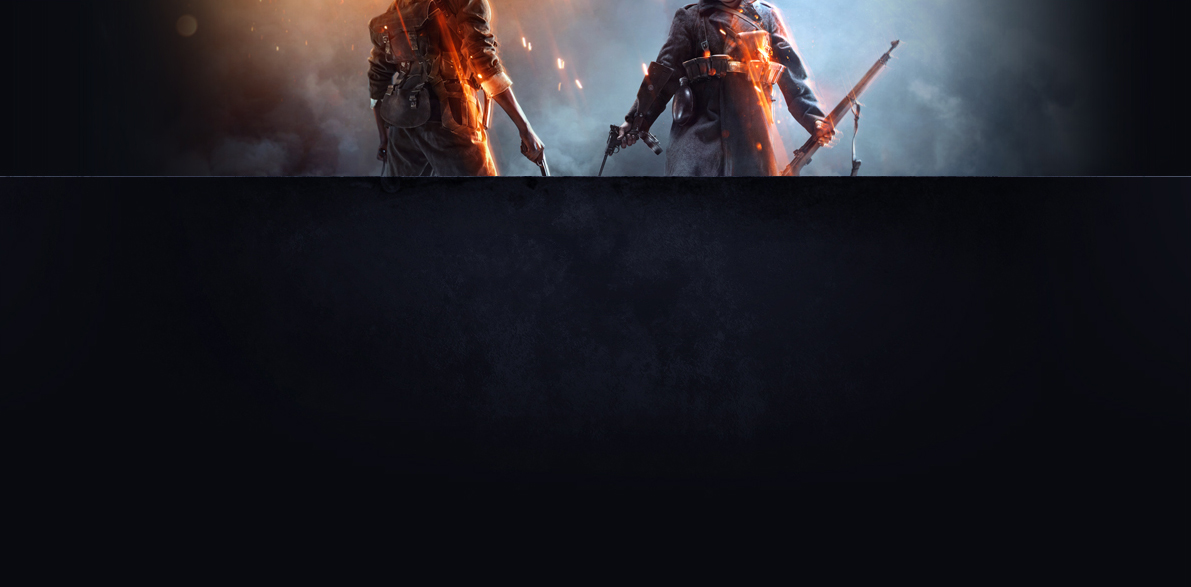
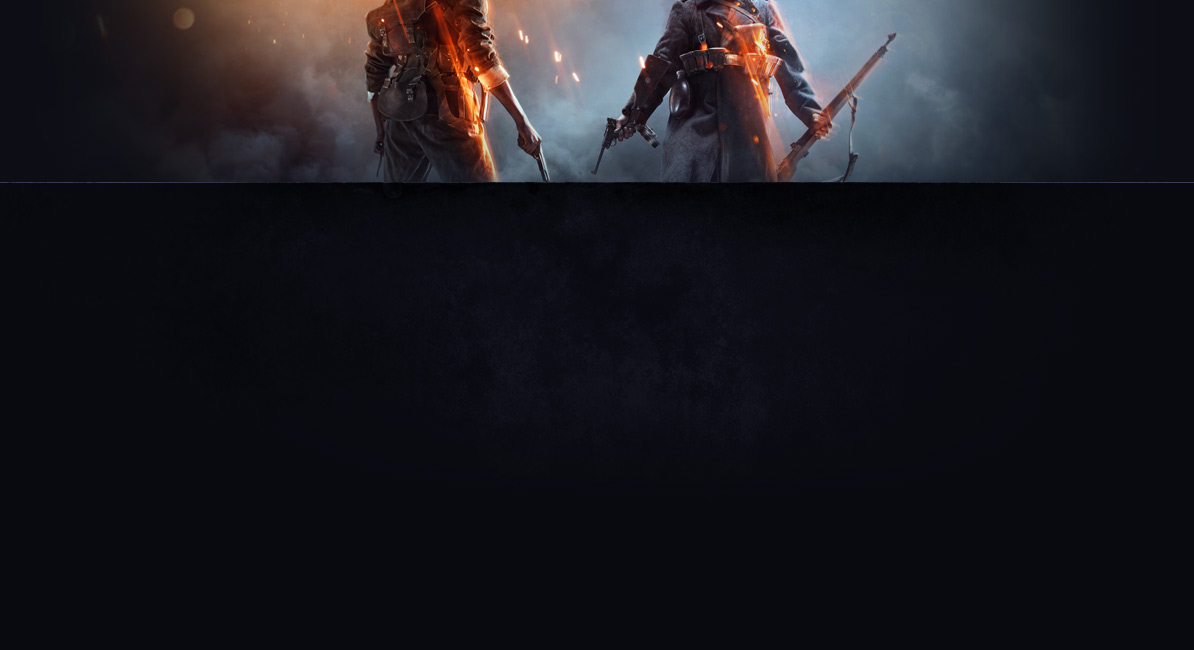
fix backgrounds, add images

Changed region(s): [[0.0, 0.0, 1.0, 0.3066], [0.1243, 0.0, 0.1864, 0.0613]]

diff --git a/public/css/main.css b/public/css/main.css
@@ -1,1 +1,1 @@
-.intro-video,.primary-nav ul,.primary-nav ul li,.site-meta ul li,section .section--centered,section .section--short-width .section-image,ul.games-listing li{text-align:center}body{background-color:#090a10;margin:0;padding:0;height:100%}ol,ul{list-style:none}.section-sub-section ul li{list-style:none;font-family:MuseoSans,"century gothic",arial,sans-serif;color:rgba(255,255,255,.4);padding-bottom:10px}a,strong{color:#df4545}.section-sub-section ul li:before{content:"\f101";font-family:FontAwesome;display:inline-block;margin-left:-1.3em;width:1.3em}h1,h2,h3,h4{font-family:MuseoSans,"century gothic",arial,sans-serif;color:#fff;line-height:1.2em;text-transform:uppercase}h1{font-size:36px;font-weight:500}h2.subtitle{font:400 24px/1em MuseoSans,"century gothic",arial;text-transform:none}section{padding:30px 0;width:100%;min-height:400px;margin:0 auto;display:flex;align-items:center}.grid,.hero-video{min-height:700px}section.with-shadow{box-shadow:0 0 10px #000}section .section--short-width{display:flex;flex-direction:row;flex-wrap:wrap}section .section--short-width .section-blurb,section .section--short-width .section-image{flex:50%}section a{font-weight:700;transition:.6s}section .section-content-container{width:960px;margin:0 auto;vertical-align:middle}section .section-content-container .section-sub-section{margin-bottom:60px}p{color:#bfb5b5;font:400 16px/1.8em MuseoSans,"century gothic",arial;line-height:26px}a{text-decoration:none;transition:color .6s}a:hover{color:#fff;transition:.6s}a.call-to-action-button{border:3px solid #fff;padding:20px;border-radius:40px;color:#fff;margin-top:20px;display:inline-block;font-family:MuseoSans,"century gothic",arial,sans-serif;font-size:24px;text-transform:uppercase}a.call-to-action-button:hover{background-color:#fff;color:#000}.primary-nav{z-index:50;width:100%;height:69px;background:url(../images/navbar-bg.jpg) repeat-x #090a10;box-shadow:0 1px 10px #000;position:relative;transition:all .4s ease}.primary-nav .nav-texture{background:url(../images/navbar-texture.png) center 0 no-repeat}.primary-nav ul{margin:0 auto;padding:0;min-width:1000px;overflow:hidden}.primary-nav ul li{display:inline-block;background:url(../images/divider.jpg) left bottom no-repeat;z-index:10;height:68px}.primary-nav ul li img{display:block;opacity:0;margin-top:-70px;margin-right:20px;filter:drop-shadow(0 0 5px #000);-webkit-filter:drop-shadow(0 0 5px #000)}.primary-nav ul li:first-of-type{background:0 0}.primary-nav ul li:first-of-type.show-logo{text-indent:-9999px}.primary-nav ul li:first-of-type.show-logo img{transition:all .4s ease;opacity:100}.primary-nav ul li a{display:inline-block;padding:26px 45px 25px;color:#6c7384;font:400 16px/1.8em MuseoSans,"century gothic",arial;text-transform:uppercase;text-shadow:0 0 5px rgba(0,0,0,.5)}.primary-nav ul li a:hover{color:#fff;text-decoration:none}.primary-nav ul li a.active a,.primary-nav ul li a.current-menu-item a{color:#fff}section.primary-footer{background:url(../images/footer-bg.jpg?) center 0 no-repeat #1a2128;display:block}section.primary-footer h1{font-family:MuseoSans,"century gothic",arial,sans-serif;font-size:18px}section.primary-footer p{font-size:14px}section.primary-footer .section-content-container{display:flex;flex-direction:row;flex-wrap:wrap}section.primary-footer .section-content-container .section-blurb{flex:100%;display:flex;padding:0 30px 20px 0}section.primary-footer .section-content-container .section-blurb .logo{display:flex;align-items:center;justify-content:center;flex:20%}section.primary-footer .section-content-container .section-blurb .logo img{width:150px;filter:drop-shadow(0 0 5px #000);-webkit-filter:drop-shadow(0 0 5px #000)}section.primary-footer .section-content-container .section-blurb .blurb-text{flex:80%}.footer-section{font-family:Tahoma,sans-serif;color:#6c7384;flex:50%;padding-top:20px}.collection .item .members,.collection .item .title,section.division .command-staff,section.division .sub-nav ul li{font-family:MuseoSans,"century gothic",arial,sans-serif}.footer-section.full-width{flex:100%}.footer-section ul{margin:0;padding:0}.footer-section ul li{line-height:25px;display:block;font-size:12px;padding-bottom:15px;color:rgba(255,255,255,.2)}.footer-section ul li .meta{display:block}.footer-section a{font-weight:lighter}.site-meta ul li{display:inline-block}.sitemap .sitemap-links ul{display:flex;flex:50%;flex-wrap:wrap}.sitemap .sitemap-links ul li{padding:0;flex:1 0 50%}.sitemap .social-media,.sitemap a{color:#6c7384}.sitemap .social-media:hover,.sitemap a:hover{color:#fff}.sitemap .social-media ul li,.sitemap a ul li{display:inline}.fixed,.stay-fixed{position:fixed;top:0}.modal-overlay{position:fixed;background-color:#000;opacity:.8;transition:opacity .6s ease;height:100%;width:100%;z-index:999}.intro-video{transform:translateY(-50%);position:fixed;top:50%;z-index:9999;width:100%;height:75%}.modal{display:block;opacity:0}.name.msgt{color:#c0f}.name.ssgt{color:#2e2efe}.name.sgt{color:#0f0}@media (max-width:1020px){.hero-video video{display:none}.primary-nav ul li{background:0 0}.section--short-width{display:block!important}section.lobby{background:0 0!important}section.lobby .divisions-list{margin-top:20px}}.game{background-image:url(../images/game-icons-sprite.png);background-repeat:no-repeat;display:block;opacity:.5;width:48px;height:48px;transition:opacity .6s}.game:hover{filter:drop-shadow(0 0 2px #000);-webkit-filter:drop-shadow(0 0 2px #000);opacity:1;transition:.6s}.game.bdo{background-position:-5px -5px}.game.bf{background-position:-63px -5px}.game.bf3{background-position:-121px -5px}.game.bf4{background-position:-5px -63px}.game.bfh{background-position:-179px -5px}.game.h1z1{background-position:-79px -63px}.game.jk{background-position:-137px -63px}.game.ow{background-position:-79px -121px}.game.ps2{background-position:-137px -121px}.game.swb{background-position:-5px -179px}.game.tc{background-position:-63px -179px}.game.wf{background-position:-121px -179px}.game.wg{background-position:-179px -179px}.game.wh{background-position:-237px -5px}.game.wow{background-position:-195px -63px}.game.ws{background-position:-195px -121px}.game.wt{background-position:-237px -179px}.aod-logo{filter:drop-shadow(0 0 5px #000);-webkit-filter:drop-shadow(0 0 5px #000);width:250px}.hero-video .hero-text{width:60%;color:#fff;z-index:3;position:relative;margin:0 auto;text-align:center}.hero-video .hero-text .play-button{background:url(../images/play-button.png) no-repeat;width:53px;height:61px;margin:60px auto 0;text-indent:-9999px;transition:filter .6s ease}.ie8-poster,.video-container,video{object-fit:cover;height:700px;top:0;left:0;position:absolute;width:100%;overflow:hidden}.hero-video .hero-text .play-button:hover{filter:drop-shadow(0 0 10px #fff);-webkit-filter:drop-shadow(0 0 10px #fff);transition:filter .6s ease;cursor:pointer}.hero-video .hero-text h1{font-size:48px;text-shadow:0 0 2px rgba(0,0,0,.4)}.grid{position:absolute;top:0;left:0;width:100%;z-index:2;background-image:url(../images/grid.png),url(../images/video-overlay.png);background-color:rgba(0,0,0,.5);background-repeat:repeat,repeat-x}.video-container{background:url(../images/video-poster.jpg) no-repeat;padding-top:60px;min-width:960px;right:0;margin:0 auto}.ie8-poster,video{z-index:1;padding-bottom:60px}section.supported-games{background:url(../images/supported-games-bg.jpg?) center 0 no-repeat #0b0f12;overflow:visible}section.supported-games .section-content-container{padding:40px 0}ul.games-listing li{display:inline-block;margin:15px;text-indent:-9999px}section.founded-info{background-image:url(../images/founded-bg.jpg?),url(../images/founded-bg-top-border.png?);background-color:#3a0707;background-position:center 0,center 0;background-repeat:no-repeat,repeat-x}section.social-media{background:url(../images/social-media-bg.jpg?) center 0 no-repeat #030911}.social-media ul{margin-top:60px}ul.social-media-sites li{display:inline-block;background-image:url(../images/social-media-sprite.png);background-repeat:no-repeat;margin:0 30px 0 0;width:62px;height:63px;text-indent:-9999px}ul.social-media-sites li.steam{background-position:-5px -5px}ul.social-media-sites li.twitch{background-position:-77px -5px}ul.social-media-sites li.twitter{background-position:-5px -78px}ul.social-media-sites li.youtube{background-position:-78px -78px}ul.social-media-sites li:hover{filter:drop-shadow(0 0 5px #fff);-webkit-filter:drop-shadow(0 0 5px #fff);cursor:pointer}section.honor-info{background:url(../images/honor-bg-top.png?) top repeat-x #74080b}section.apply-info{background:url(../images/apply-bg.jpg?) center 0 no-repeat #030911}section.division.bf,section.lobby{background-repeat:no-repeat,repeat-x;background-position:top center}section.lobby{background-image:url(../images/divisions-page-bg.jpg),url(../images/divisions-page-top-bg.jpg)}section.lobby .section-blurb{text-align:right;margin-top:50px}.divisions-list{margin-top:160px;margin-bottom:60px}.divisions-list .game-button{border:1px solid #333;border-radius:10px;margin:15px;transition:border-color .6s ease}.divisions-list .game-button:hover{border-color:#fff;cursor:pointer;transition:border-color .6s ease}.collection{display:flex;flex-direction:row;flex-wrap:wrap;align-items:center}.collection .item{display:flex;flex-direction:row;flex:1 1 20%;color:#fff;padding:15px}.collection .item .icon{margin-right:15px}.collection .item .icon .game{opacity:1}.collection .item .icon:hover{cursor:pointer}.collection .item .members{color:rgba(255,255,255,.3)}.game-header{display:flex;flex-direction:row;align-items:center}.game-header .game{opacity:1;margin-right:15px}section.division{margin-top:20px}section.division.bf{background-image:url(../images/division-headers/bf.jpg),url(../images/division-bg-border.jpg)}section.division h2{background:url(../images/division-header-bg.jpg) center no-repeat;height:50px;padding-left:15px;display:flex;align-items:center}section.division .sub-nav{margin-top:180px}section.division .sub-nav a{color:#fff}section.division .sub-nav ul{padding:0;text-indent:0}section.division .sub-nav ul li{display:inline-block;padding:15px;text-transform:uppercase;border:1px solid #fff;border-radius:10px;margin-right:15px;opacity:.3;transition:opacity .6s ease;color:#fff}section.division .sub-nav ul li:hover{opacity:1;transition:opacity .6s ease;cursor:pointer}section.division .command-staff .member{border:1px solid rgba(255,255,255,.3);border-radius:10px;padding:15px;display:inline-block;flex-direction:column;margin-right:15px;transition:border .6s ease}section.division .command-staff .member:hover{border:1px solid #fff;cursor:pointer;transition:border .6s ease}section.division .command-staff .member .name{text-transform:uppercase;font-size:20px}section.division .command-staff .member .position{color:rgba(255,255,255,.3)}
+.intro-video,.primary-nav ul,.primary-nav ul li,.site-meta ul li,section .section--centered,section .section--short-width .section-image,ul.games-listing li{text-align:center}body{background-color:#090a10;margin:0;padding:0;height:100%}ol,ul{list-style:none}.section-sub-section ul li{list-style:none;font-family:MuseoSans,"century gothic",arial,sans-serif;color:rgba(255,255,255,.4);padding-bottom:10px}a,strong{color:#df4545}.section-sub-section ul li:before{content:"\f101";font-family:FontAwesome;display:inline-block;margin-left:-1.3em;width:1.3em}h1,h2,h3,h4{font-family:MuseoSans,"century gothic",arial,sans-serif;color:#fff;line-height:1.2em;text-transform:uppercase}h1{font-size:36px;font-weight:500}h2.subtitle{font:400 24px/1em MuseoSans,"century gothic",arial;text-transform:none}section{padding:30px 0;width:100%;min-height:400px;margin:0 auto;display:flex;align-items:center}.grid,.hero-video{min-height:700px}section.with-shadow{box-shadow:0 0 10px #000}section .section--short-width{display:flex;flex-direction:row;flex-wrap:wrap}section .section--short-width .section-blurb,section .section--short-width .section-image{flex:50%}section a{font-weight:700;transition:.6s}section .section-content-container{width:960px;margin:0 auto;vertical-align:middle}section .section-content-container .section-sub-section{margin-bottom:60px}p{color:#bfb5b5;font:400 16px/1.8em MuseoSans,"century gothic",arial;line-height:26px}a{text-decoration:none;transition:color .6s}a:hover{color:#fff;transition:.6s}a.call-to-action-button{border:3px solid #fff;padding:20px;border-radius:40px;color:#fff;margin-top:20px;display:inline-block;font-family:MuseoSans,"century gothic",arial,sans-serif;font-size:24px;text-transform:uppercase}a.call-to-action-button:hover{background-color:#fff;color:#000}.primary-nav{z-index:50;width:100%;height:69px;background:url(../images/navbar-bg.jpg) repeat-x #090a10;box-shadow:0 1px 10px #000;position:relative;transition:all .4s ease}.primary-nav .nav-texture{background:url(../images/navbar-texture.png) center 0 no-repeat}.primary-nav ul{margin:0 auto;padding:0;min-width:1000px;overflow:hidden}.primary-nav ul li{display:inline-block;background:url(../images/divider.jpg) left bottom no-repeat;z-index:10;height:68px}.primary-nav ul li img{display:block;opacity:0;margin-top:-70px;margin-right:20px;filter:drop-shadow(0 0 5px #000);-webkit-filter:drop-shadow(0 0 5px #000)}.primary-nav ul li:first-of-type{background:0 0}.primary-nav ul li:first-of-type.show-logo{text-indent:-9999px}.primary-nav ul li:first-of-type.show-logo img{transition:all .4s ease;opacity:100}.primary-nav ul li a{display:inline-block;padding:26px 45px 25px;color:#6c7384;font:400 16px/1.8em MuseoSans,"century gothic",arial;text-transform:uppercase;text-shadow:0 0 5px rgba(0,0,0,.5)}.primary-nav ul li a:hover{color:#fff;text-decoration:none}.primary-nav ul li a.active a,.primary-nav ul li a.current-menu-item a{color:#fff}section.primary-footer{background:url(../images/footer-bg.jpg?) center 0 no-repeat #1a2128;display:block}section.primary-footer h1{font-family:MuseoSans,"century gothic",arial,sans-serif;font-size:18px}section.primary-footer p{font-size:14px}section.primary-footer .section-content-container{display:flex;flex-direction:row;flex-wrap:wrap}section.primary-footer .section-content-container .section-blurb{flex:100%;display:flex;padding:0 30px 20px 0}section.primary-footer .section-content-container .section-blurb .logo{display:flex;align-items:center;justify-content:center;flex:20%}section.primary-footer .section-content-container .section-blurb .logo img{width:150px;filter:drop-shadow(0 0 5px #000);-webkit-filter:drop-shadow(0 0 5px #000)}section.primary-footer .section-content-container .section-blurb .blurb-text{flex:80%}.footer-section{font-family:Tahoma,sans-serif;color:#6c7384;flex:50%;padding-top:20px}.collection .item .members,.collection .item .title,section.division .command-staff,section.division .sub-nav ul li{font-family:MuseoSans,"century gothic",arial,sans-serif}.footer-section.full-width{flex:100%}.footer-section ul{margin:0;padding:0}.footer-section ul li{line-height:25px;display:block;font-size:12px;padding-bottom:15px;color:rgba(255,255,255,.2)}.footer-section ul li .meta{display:block}.footer-section a{font-weight:lighter}.site-meta ul li{display:inline-block}.sitemap .sitemap-links ul{display:flex;flex:50%;flex-wrap:wrap}.sitemap .sitemap-links ul li{padding:0;flex:1 0 50%}.sitemap .social-media,.sitemap a{color:#6c7384}.sitemap .social-media:hover,.sitemap a:hover{color:#fff}.sitemap .social-media ul li,.sitemap a ul li{display:inline}.fixed,.stay-fixed{position:fixed;top:0}.modal-overlay{position:fixed;background-color:#000;opacity:.8;transition:opacity .6s ease;height:100%;width:100%;z-index:999}.intro-video{transform:translateY(-50%);position:fixed;top:50%;z-index:9999;width:100%;height:75%}.modal{display:block;opacity:0}.name.msgt{color:#c0f}.name.ssgt{color:#2e2efe}.name.sgt{color:#0f0}@media (max-width:1020px){.hero-video video{display:none}.primary-nav ul li{background:0 0}.section--short-width{display:block!important}section.lobby{background:0 0!important}section.lobby .divisions-list{margin-top:20px}}.game{background-image:url(../images/game-icons-sprite.png);background-repeat:no-repeat;display:block;opacity:.5;width:48px;height:48px;transition:opacity .6s}.game:hover{filter:drop-shadow(0 0 2px #000);-webkit-filter:drop-shadow(0 0 2px #000);opacity:1;transition:.6s}.game.bdo{background-position:-5px -5px}.game.bf{background-position:-63px -5px}.game.bf3{background-position:-121px -5px}.game.bf4{background-position:-5px -63px}.game.bfh{background-position:-179px -5px}.game.h1z1{background-position:-79px -63px}.game.jk{background-position:-137px -63px}.game.ow{background-position:-79px -121px}.game.ps2{background-position:-137px -121px}.game.swb{background-position:-5px -179px}.game.tc{background-position:-63px -179px}.game.wf{background-position:-121px -179px}.game.wg{background-position:-179px -179px}.game.wh{background-position:-237px -5px}.game.wow{background-position:-195px -63px}.game.ws{background-position:-195px -121px}.game.wt{background-position:-237px -179px}.aod-logo{filter:drop-shadow(0 0 5px #000);-webkit-filter:drop-shadow(0 0 5px #000);width:250px}.hero-video .hero-text{width:60%;color:#fff;z-index:3;position:relative;margin:0 auto;text-align:center}.hero-video .hero-text .play-button{background:url(../images/play-button.png) no-repeat;width:53px;height:61px;margin:60px auto 0;text-indent:-9999px;transition:filter .6s ease}.ie8-poster,.video-container,video{object-fit:cover;height:700px;top:0;left:0;position:absolute;width:100%;overflow:hidden}.hero-video .hero-text .play-button:hover{filter:drop-shadow(0 0 10px #fff);-webkit-filter:drop-shadow(0 0 10px #fff);transition:filter .6s ease;cursor:pointer}.hero-video .hero-text h1{font-size:48px;text-shadow:0 0 2px rgba(0,0,0,.4)}.grid{position:absolute;top:0;left:0;width:100%;z-index:2;background-image:url(../images/grid.png),url(../images/video-overlay.png);background-color:rgba(0,0,0,.5);background-repeat:repeat,repeat-x}.video-container{background:url(../images/video-poster.jpg) no-repeat;padding-top:60px;min-width:960px;right:0;margin:0 auto}.ie8-poster,video{z-index:1;padding-bottom:60px}section.supported-games{background:url(../images/supported-games-bg.jpg?) center 0 no-repeat #0b0f12;overflow:visible}section.supported-games .section-content-container{padding:40px 0}ul.games-listing li{display:inline-block;margin:15px;text-indent:-9999px}section.founded-info{background-image:url(../images/founded-bg.jpg?),url(../images/founded-bg-top-border.png?);background-color:#3a0707;background-position:center 0,center 0;background-repeat:no-repeat,repeat-x}section.social-media{background:url(../images/social-media-bg.jpg?) center 0 no-repeat #030911}.social-media ul{margin-top:60px}ul.social-media-sites li{display:inline-block;background-image:url(../images/social-media-sprite.png);background-repeat:no-repeat;margin:0 30px 0 0;width:62px;height:63px;text-indent:-9999px}ul.social-media-sites li.steam{background-position:-5px -5px}ul.social-media-sites li.twitch{background-position:-77px -5px}ul.social-media-sites li.twitter{background-position:-5px -78px}ul.social-media-sites li.youtube{background-position:-78px -78px}ul.social-media-sites li:hover{filter:drop-shadow(0 0 5px #fff);-webkit-filter:drop-shadow(0 0 5px #fff);cursor:pointer}section.honor-info{background:url(../images/honor-bg-top.png?) top repeat-x #74080b}section.apply-info{background:url(../images/apply-bg.jpg?) center 0 no-repeat #030911}section.lobby{background-image:url(../images/divisions-page-bg.jpg),url(../images/divisions-page-top-bg.jpg);background-repeat:no-repeat,repeat-x;background-position:top center}section.lobby .section-blurb{text-align:right;margin-top:50px}.divisions-list{margin-top:160px;margin-bottom:60px}.divisions-list .game-button{border:1px solid #333;border-radius:10px;margin:15px;transition:border-color .6s ease}.divisions-list .game-button:hover{border-color:#fff;cursor:pointer;transition:border-color .6s ease}.collection{display:flex;flex-direction:row;flex-wrap:wrap;align-items:center}.collection .item{display:flex;flex-direction:row;flex:1 1 20%;color:#fff;padding:15px}.collection .item .icon{margin-right:15px}.collection .item .icon .game{opacity:1}.collection .item .icon:hover{cursor:pointer}.collection .item .members{color:rgba(255,255,255,.3)}.game-header{display:flex;flex-direction:row;align-items:center}.game-header .game{opacity:1;margin-right:15px}section.division{margin-top:20px}section.division h2{background:url(../images/division-header-bg.jpg) center no-repeat;height:50px;padding-left:15px;display:flex;align-items:center}section.division .sub-nav{margin-top:180px}section.division .sub-nav a{color:#fff}section.division .sub-nav ul{padding:0;text-indent:0}section.division .sub-nav ul li{display:inline-block;padding:15px;text-transform:uppercase;border:1px solid #fff;border-radius:10px;margin-right:15px;opacity:.3;transition:opacity .6s ease;color:#fff}section.division .sub-nav ul li:hover{opacity:1;transition:opacity .6s ease;cursor:pointer}section.division .command-staff .member{border:1px solid rgba(255,255,255,.3);border-radius:10px;padding:15px;display:inline-block;flex-direction:column;margin-right:15px;transition:border .6s ease}section.division .command-staff .member:hover{border:1px solid #fff;cursor:pointer;transition:border .6s ease}section.division .command-staff .member .name{text-transform:uppercase;font-size:20px}section.division .command-staff .member .position{color:rgba(255,255,255,.3)}

diff --git a/single-divisions.php b/single-divisions.php
@@ -1,17 +1,25 @@
 <?php
 get_header();
 
+use ClanAOD\Helpers;
+
 /**
  * Template Name: Divisions Template
  */
+
+$bg = meta('abbreviation');
+$url = get_template_directory_uri() . '/public/images/';
+
+$divisionBg = "url('{$url}division-headers/{$bg}.jpg')";
+$borderBg = "url('{$url}division-bg-border.jpg')";
 
 include(get_template_directory() . '/assets/partials/navbar.php'); ?>
 
 <?php if (have_posts()): while (have_posts()): the_post(); ?>
 
-    <section class="division bf">
+    <section class="division"
+             style="background: <?= "{$divisionBg} no-repeat, {$borderBg} repeat-x" ?>; background-position: top center;">
         <div class="section-content-container">
-
             <div class="sub-nav">
                 <ul>
                     <li><a class="smooth-scroll" href="#general">General</a></li>
@@ -46,6 +54,5 @@ include(get_template_directory() . '/assets/partials/navbar.php'); ?>
         </div>
     </section>
 
-<?php endwhile; endif; ?>
-
-<?php get_footer() ?>
+<?php endwhile; endif;
+get_footer();

diff --git a/functions.php b/functions.php
@@ -1,5 +1,7 @@
 <?php
 
+use ClanAOD\Helpers;
+
 /**
  * Set up theme-specific functionality
  */
@@ -51,5 +53,23 @@ class AODThemeSetup
 
     }
 }
+
+/**
+ * Get meta data - theme
+ *
+ * @param $field
+ * @return mixed
+ */
+function meta($field)
+{
+    global $post;
+
+    return Helpers::getField(
+        "division_settings_",
+        $field,
+        $post->ID
+    );
+}
+
 
 new AODThemeSetup();

diff --git a/data/divisions.php b/data/divisions.php
@@ -27,6 +27,7 @@ return [
             ],
         ]
     ],
+
     [
         'name' => 'Battlefront',
         'members' => 198,
